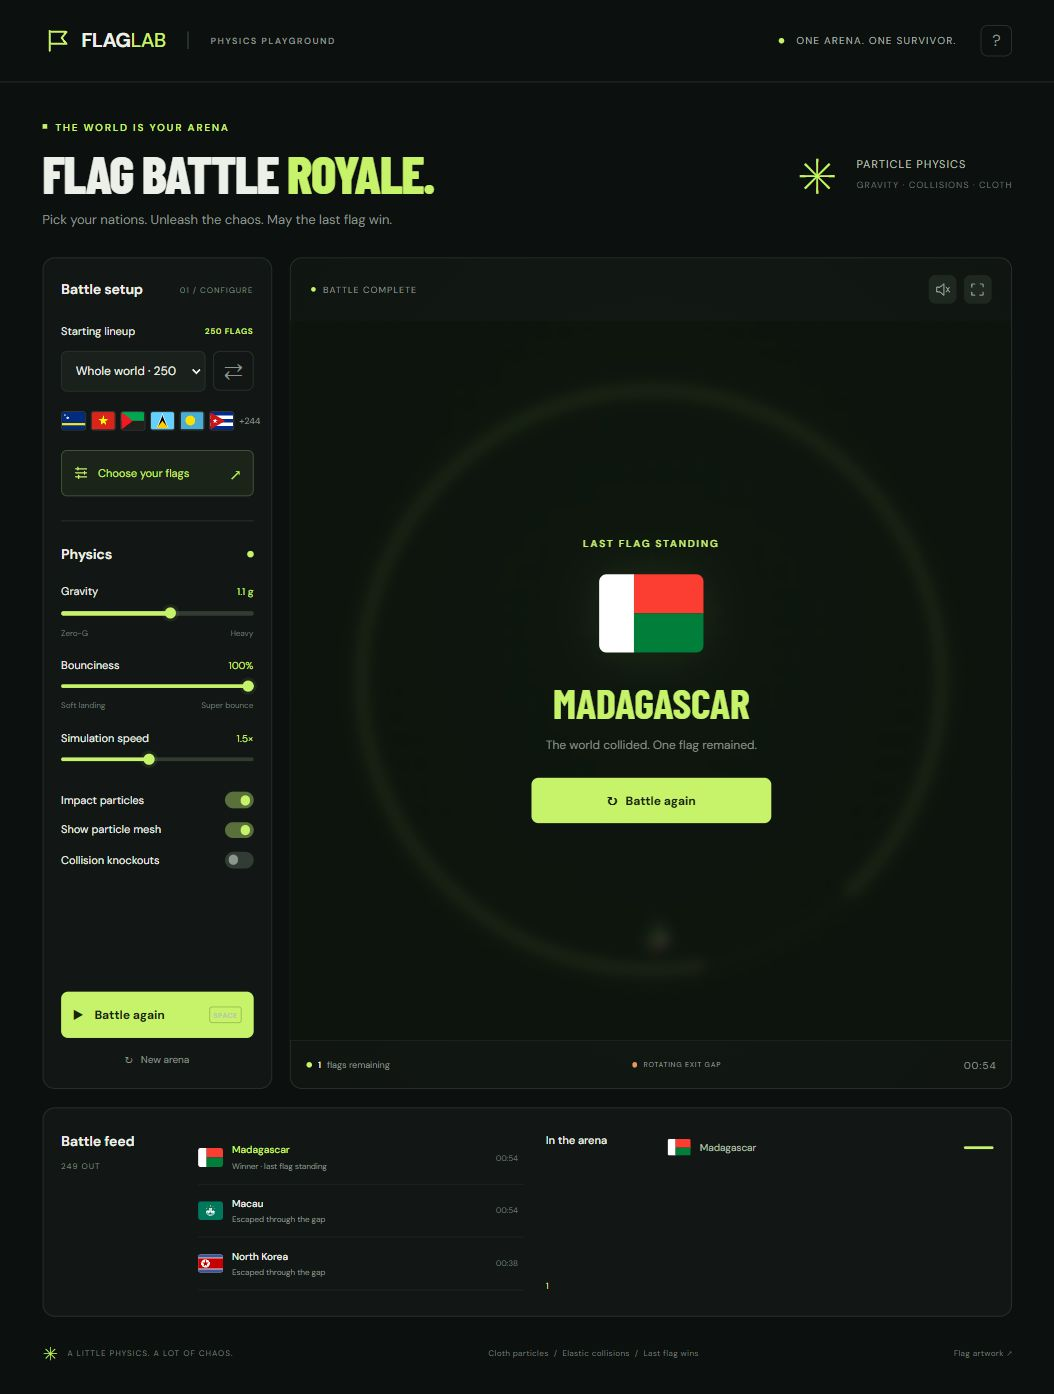
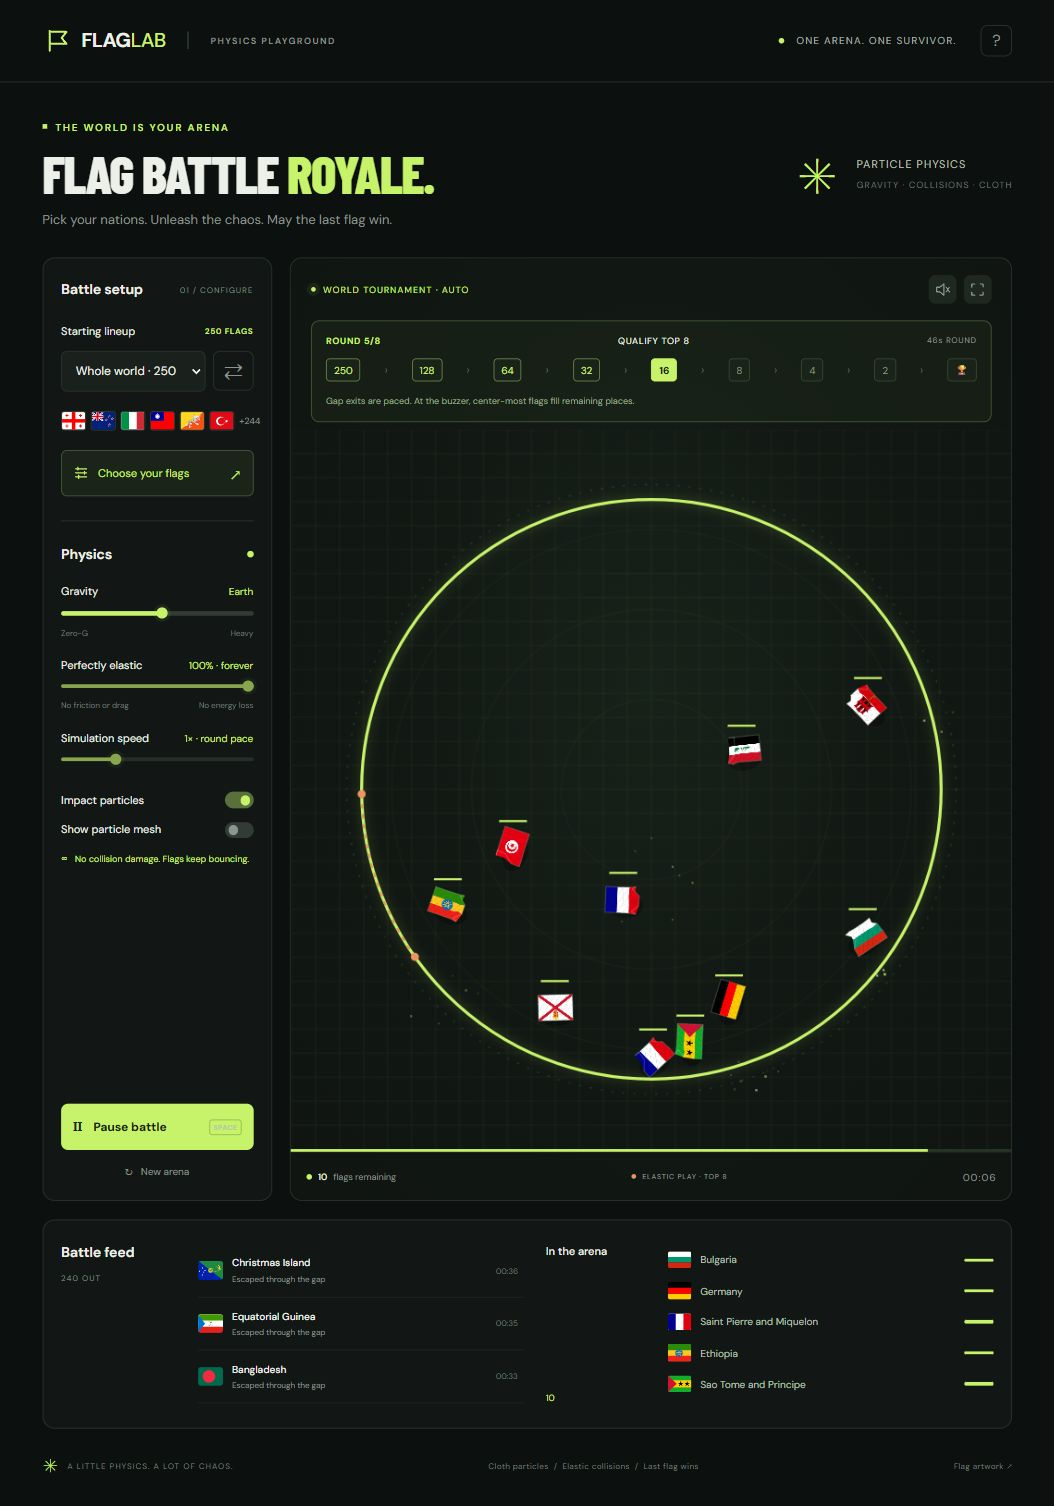
Prepare GitHub project documentation and tournament preview

diff --git a/VERIFICATION.md b/VERIFICATION.md
@@ -9,4 +9,4 @@
 - Browser console reported no errors after the texture optimization.
 - All three optional page tools registered. Valid configure/start/read actions updated the shared UI state; invalid country codes failed intentionally.
 - The offline export embeds all code and 250 SVG flag assets and includes their MIT license.
-- The original private hosting upload was blocked by expired service credentials. The tournament update retries publication using refreshed credentials; only a successful deployment result confirms a live hosted version.
+- The tournament version was successfully published privately at https://flag-battle-royale-physics.gamingslayer20.chatgpt.site. Deployment success was confirmed by the hosting service.

diff --git a/README.md b/README.md
@@ -4,6 +4,12 @@ A browser game inspired by the supplied Flag Battle Royale HTML. Choose a random
 
 Open **Flag Battle Royale.html** directly for a completely offline, single-file edition. The `dist` folder is the web edition.
 
+[Play the hosted game](https://flag-battle-royale-physics.gamingslayer20.chatgpt.site) (private owner access).
+
+![Automatic world tournament](preview.jpg)
+
+For a local browser preview, run `python -m http.server 8765 --bind 127.0.0.1 --directory dist` from this folder, then open `http://127.0.0.1:8765/`.
+
 ## Controls
 
 - Start / pause: Space, or the main button.
